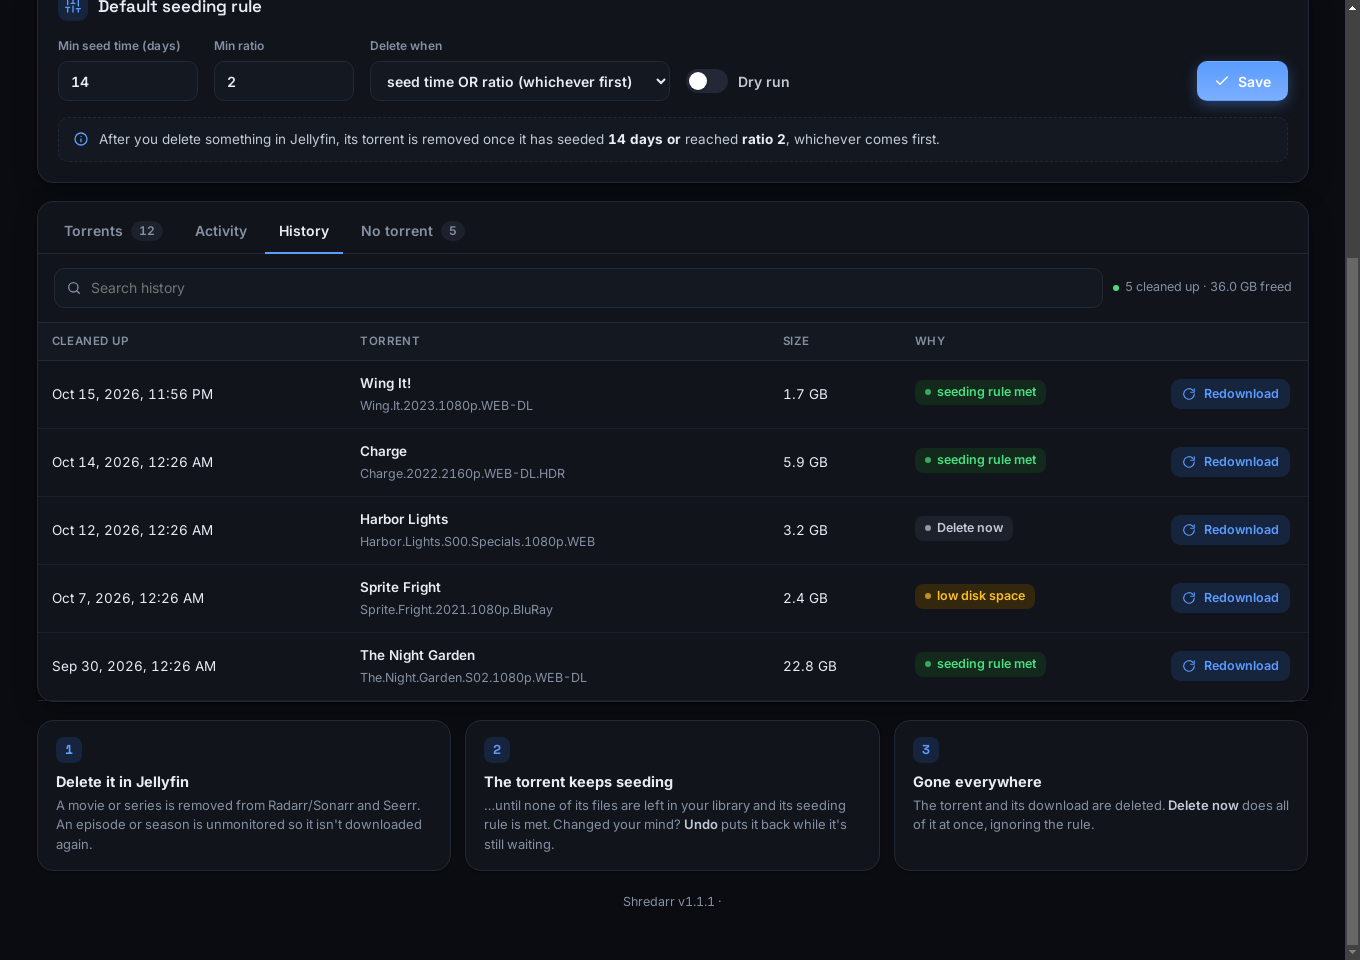
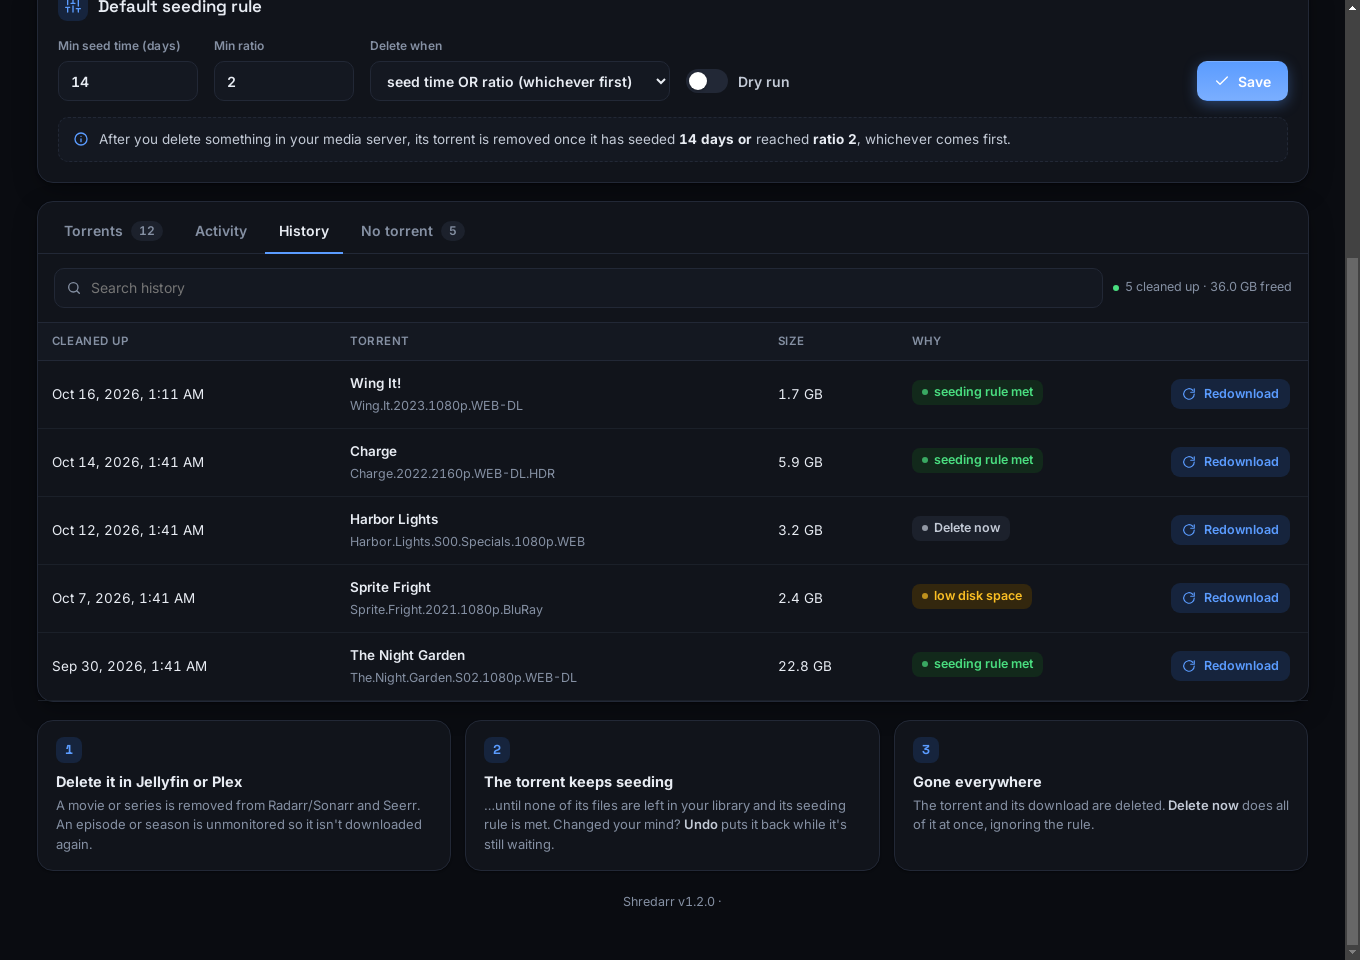
Shredarr 1.2.1: media-server-neutral wording, theme button shows the current theme

diff --git a/static/index.html b/static/index.html
@@ -55,10 +55,10 @@
 
 <div class="hero"><div class="wrapw">
 <header class="top">
-  <div class="brand"><img class="logo" src="/logo.svg?v=4" alt=""><div><h1>Shred<span>arr</span></h1><p>Delete it in %MEDIA%, and it's gone everywhere.</p></div></div>
+  <div class="brand"><img class="logo" src="/logo.svg?v=4" alt=""><div><h1>Shred<span>arr</span></h1><p>Delete it in Jellyfin or Plex, and it's gone everywhere.</p></div></div>
   <div class="hact">
     <span id="mode" class="pill %MODECLS%"><i></i><span id="modet">%MODETXT%</span></span>
-    <button class="hbtn" id="htheme" title="Theme: follows your device"><svg class="i"><use href="#i-auto"/></svg><span>Theme</span></button>
+    <button class="hbtn" id="htheme" title="Theme: System (follows your device). Click to change."><svg class="i"><use href="#i-auto"/></svg><span>System</span></button>
     <a class="hbtn" id="hset" href="/settings" title="Settings"><svg class="i"><use href="#i-gear"/></svg><span>Settings</span></a>
     <a class="hbtn" id="hback" href="/" title="Back to dashboard" hidden><svg class="i"><use href="#i-back"/></svg><span>Dashboard</span></a>
     <button class="hbtn" id="hlogout" title="Sign out"><svg class="i"><use href="#i-logout"/></svg><span>Sign out</span></button>
@@ -161,14 +161,14 @@
 <div class="sw-row"><input type="checkbox" class="sw" aria-label="A torrent is cleaned up" name="on_cleanup"><span><b>A torrent is cleaned up</b><small>Its torrent and download were deleted, with the space freed.</small></span></div>
 <div class="sw-row"><input type="checkbox" class="sw" aria-label="Something goes wrong" name="on_failure"><span><b>Something goes wrong</b><small>Any step that fails, or an app Shredarr can't reach.</small></span></div>
 <div class="sw-row"><input type="checkbox" class="sw" aria-label="An undo finishes" name="on_undo"><span><b>An undo finishes</b><small>Whether the restore worked or not.</small></span></div>
-<div class="sw-row"><input type="checkbox" class="sw" aria-label="I delete something in %MEDIA%" name="on_jellyfin"><span><b>I delete something in %MEDIA%</b><small>Every delete Shredarr receives.</small></span></div>
+<div class="sw-row"><input type="checkbox" class="sw" aria-label="I delete something in my media server" name="on_jellyfin"><span><b>I delete something in my media server</b><small>Every delete Shredarr receives.</small></span></div>
 <div class="sw-row"><input type="checkbox" class="sw" aria-label="Daily summary" name="daily_summary"><span><b>Daily summary</b><small>What was cleaned up, space freed, problems and what's waiting.</small></span><input type="time" name="summary_time" class="tm"></div></div>
 <div class="btnrow"><button type="button" id="ntest"><svg class="i"><use href="#i-send"/></svg>Send test</button><button class="p"><svg class="i"><use href="#i-check"/></svg>Save</button></div>
 </form></section>
 
 <div class="scol">
 <section class="sbox"><h3><span class="ic blue"><svg class="i"><use href="#i-broom"/></svg></span>Cleanup behavior</h3>
-<p class="help">What Shredarr does in Sonarr, Radarr and Seerr when you delete something in %MEDIA%.</p>
+<p class="help">What Shredarr does in Sonarr, Radarr and Seerr when you delete something in your media server.</p>
 <form id="bform">
 <div class="sw-row"><input type="checkbox" class="sw" aria-label="Add an import exclusion" name="import_exclusion"><span><b>Add an import exclusion</b><small>When a movie or show is removed, stop import lists from adding it back.</small></span></div>
 <div class="sw-row"><input type="checkbox" class="sw" aria-label="Remove it from Seerr" name="remove_from_seerr"><span><b>Remove it from Seerr</b><small>So it can be requested again later.</small></span></div>
@@ -178,7 +178,7 @@
 </form></section>
 
 <section class="sbox"><h3><span class="ic green"><svg class="i"><use href="#i-clock"/></svg></span>Deletion delay</h3>
-<p class="help">After you delete something in %MEDIA%, Shredarr can hold on to its torrent for a while before removing it, even once the seeding rule is met. That gives you time to <b>Undo</b> a delete you didn't mean.</p>
+<p class="help">After you delete something in your media server, Shredarr can hold on to its torrent for a while before removing it, even once the seeding rule is met. That gives you time to <b>Undo</b> a delete you didn't mean.</p>
 <form id="gform">
 <div class="field"><label for="f-gv">Wait</label><div><div class="dur"><input id="f-gv" name="value" type="number" min="0" step="any"><select name="unit"><option value="hours">hours</option><option value="days">days</option></select></div>
 <small id="g-help">0 means no delay: the torrent is removed as soon as its seeding rule is met.</small></div></div>
@@ -239,7 +239,7 @@
 <select id="msort" class="mobile"><option value="">Sort: default</option><option value="added:-1">Newest added</option><option value="added:1">Oldest added</option>
 <option value="name:1">Name A–Z</option><option value="ratio:-1">Highest ratio</option><option value="ratio:1">Lowest ratio</option>
 <option value="seeded:-1">Longest seeded</option><option value="seeded:1">Shortest seeded</option><option value="rule:-1">Seeding rule met first</option><option value="status:1">Status</option></select>
-<select id="show"><option value="">All torrents</option><option value="queued">Deleted in %MEDIA%</option><option value="met">Seeding rule met</option><option value="leftover">Leftovers</option><option value="crossseed">Cross-seeds</option><option value="protected">Protected</option><option value="custom">Custom rule</option><option value="active">Transferring</option></select>
+<select id="show"><option value="">All torrents</option><option value="queued">Deleted in media server</option><option value="met">Seeding rule met</option><option value="leftover">Leftovers</option><option value="crossseed">Cross-seeds</option><option value="protected">Protected</option><option value="custom">Custom rule</option><option value="active">Transferring</option></select>
 <button id="checknow"><svg class="i"><use href="#i-refresh"/></svg><span>Check now</span></button><span class="upd" id="upd">Loading…</span></div>
 <div class="wrap"><table><thead><tr><th data-k="name"><input type="checkbox" id="selall" class="selbox" aria-label="Select all shown">Torrent</th><th data-k="added">Added</th><th data-k="state">State</th><th data-k="ratio">Ratio</th><th data-k="seeded">Seeded</th><th data-k="rule" title="Sort by seeding progress: rule met first, then closest to meeting it">Rule</th><th data-k="status">Status</th><th></th></tr></thead>
 <tbody id="rows"><tr class="sk"><td colspan="8"><div style="width:60%"></div></td></tr><tr class="sk"><td colspan="8"><div style="width:45%"></div></td></tr><tr class="sk"><td colspan="8"><div style="width:70%"></div></td></tr><tr class="sk"><td colspan="8"><div style="width:52%"></div></td></tr></tbody></table>
@@ -250,13 +250,13 @@
 <div class="wrap"><table class="hist"><thead><tr><th>Cleaned up</th><th>Torrent</th><th>Size</th><th>Why</th><th></th></tr></thead><tbody id="hrows"></tbody></table>
 <div class="empty" id="hempty" hidden><img src="/logo.svg?v=4" alt=""><b>Nothing cleaned up yet</b>Torrents Shredarr deletes will be listed here.</div></div></div>
 <div id="pane-n" hidden><div class="bar"><div class="search"><svg class="i"><use href="#i-search"/></svg><input type="search" id="nq" placeholder="Search media with no torrent"></div><span class="upd" id="nsum">Loading…</span><button id="nsel-del" class="danger" hidden><svg class="i"><use href="#i-trash"/></svg><span>Delete selected</span></button><button id="nrefresh"><svg class="i"><use href="#i-refresh"/></svg><span>Check again</span></button></div>
-<p class="help pad">Movies and episodes in your library whose torrent isn't in %CLIENT% anymore, so they aren't seeding. Deleting one works like deleting it in %MEDIA%: it's removed from %MEDIA% and Radarr (or unmonitored in Sonarr), and the files are deleted.</p>
+<p class="help pad">Movies and episodes in your library whose torrent isn't in %CLIENT% anymore, so they aren't seeding. Deleting one works like deleting it in your media server: it's removed from %MEDIA% and Radarr (or unmonitored in Sonarr), and the files are deleted.</p>
 <div class="wrap"><table class="hist orph"><thead><tr><th><input type="checkbox" id="nselall" class="selbox" aria-label="Select all">Media</th><th>Size</th><th>Folder</th><th></th></tr></thead><tbody id="nrows"></tbody></table>
 <div class="empty" id="nempty" hidden><img src="/logo.svg?v=4" alt=""><b>Everything has a torrent</b>Every movie and episode in your library still comes from a torrent in qBittorrent.</div>
 <div class="empty" id="nnone" hidden><img src="/logo.svg?v=4" alt=""><b>Nothing found</b>Nothing with no torrent matches your search.</div></div></div>
 </section>
 <div class="how dash">
-<div class="step"><div class="num">1</div><b>Delete it in %MEDIA%</b><p>A movie or series is removed from Radarr/Sonarr and Seerr. An episode or season is unmonitored so it isn't downloaded again.</p></div>
+<div class="step"><div class="num">1</div><b>Delete it in Jellyfin or Plex</b><p>A movie or series is removed from Radarr/Sonarr and Seerr. An episode or season is unmonitored so it isn't downloaded again.</p></div>
 <div class="step"><div class="num">2</div><b>The torrent keeps seeding</b><p>…until none of its files are left in your library and its seeding rule is met. Changed your mind? <b>Undo</b> puts it back while it's still waiting.</p></div>
 <div class="step"><div class="num">3</div><b>Gone everywhere</b><p>The torrent and its download are deleted. <b>Delete now</b> does all of it at once, ignoring the rule.</p></div>
 </div>

diff --git a/static/app.js b/static/app.js
@@ -86,12 +86,13 @@ const post = (url, body, type) =>
 
 // ------------------------------------------------------------------ theme (auto / light / dark)
 const THEMES = ["auto", "light", "dark"];
-const THEME_LABEL = { auto: "follows your device", light: "light", dark: "dark" };
+const THEME_LABEL = { auto: "System", light: "Light", dark: "Dark" };
 function applyTheme(t) {
   if (t === "auto") delete document.documentElement.dataset.theme;
   else document.documentElement.dataset.theme = t;
   $("htheme").firstChild.innerHTML = `<use href="#i-${{ auto: "auto", light: "sun", dark: "moon" }[t]}"/>`;
-  $("htheme").title = "Theme: " + THEME_LABEL[t];
+  $("htheme").lastChild.textContent = THEME_LABEL[t];
+  $("htheme").title = `Theme: ${THEME_LABEL[t]}${t === "auto" ? " (follows your device)" : ""}. Click to change.`;
 }
 let theme = "auto";
 try {
@@ -497,7 +498,7 @@ function sentence() {
         : `${ds} <b>or</b> ${rs}, whichever comes first`
       : ds || rs || "<b>straight away</b> (no seeding rule)";
   $("sentence").innerHTML =
-    `After you delete something in ${MEDIA}, its torrent is removed once it ${ds || rs ? "" : "is deleted "}${cond}.` +
+    `After you delete something in your media server, its torrent is removed once it ${ds || rs ? "" : "is deleted "}${cond}.` +
     (f.get("dry_run") ? " <b>Dry run:</b> only logged for now." : "");
 }
 $("rules").addEventListener("input", sentence);
@@ -1427,7 +1428,7 @@ function gHelp() {
   const f = formObj($("gform")),
     v = +f.value || 0;
   $("g-help").textContent = v
-    ? `Torrents wait at least ${v} ${v === 1 ? f.unit.slice(0, -1) : f.unit} after you delete in ${MEDIA}. Sonarr/Radarr cleanup still happens right away; Undo reverses it.`
+    ? `Torrents wait at least ${v} ${v === 1 ? f.unit.slice(0, -1) : f.unit} after you delete something in your media server. Sonarr/Radarr cleanup still happens right away; Undo reverses it.`
     : "0 means no delay: the torrent is removed as soon as its seeding rule is met.";
 }
 $("gform").oninput = gHelp;

diff --git a/shredarr.py b/shredarr.py
@@ -5,7 +5,7 @@ seeding rules are met and none of the torrent's files are still in the library."
 import base64, hashlib, hmac, html, http.cookiejar, http.cookies, json, os, queue, re, secrets, shutil, sqlite3, subprocess, sys, threading, time, urllib.error, urllib.parse, urllib.request
 from http.server import BaseHTTPRequestHandler, ThreadingHTTPServer
 
-VERSION = "1.2.0"
+VERSION = "1.2.1"
 REPO = os.environ.get("SHREDARR_REPO", "jschaef80/shredarr")  # where update checks look for new releases
 CFG = os.environ.get("SHREDARR_CONFIG", "/config/config.json")
 STATIC = os.path.join(os.path.dirname(os.path.abspath(__file__)), "static")
